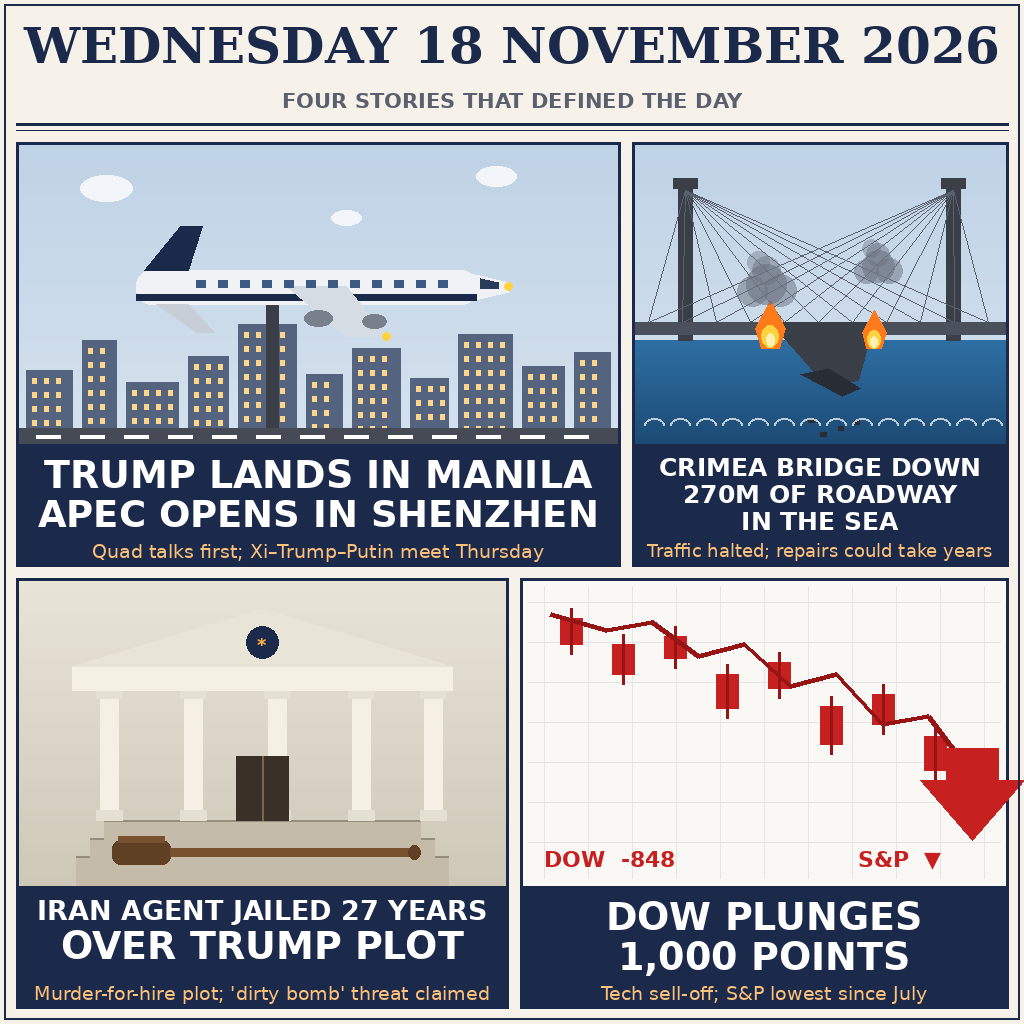
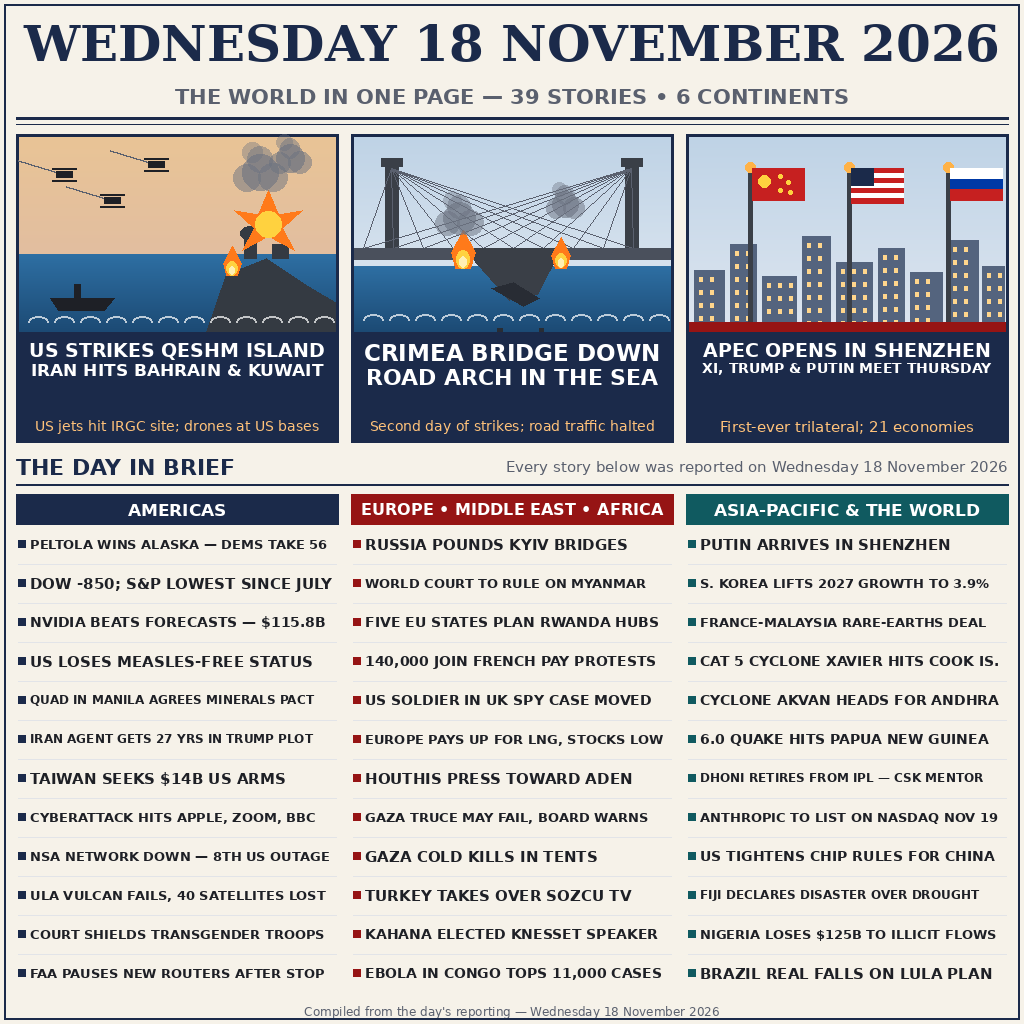
v2: 39-story front page — 3 visual leads + 36 verified briefs, 6 continents (1024x1024, 150570 bytes)

diff --git a/main.py b/main.py
@@ -1,4 +1,4 @@
-# main.py — news-image-20261118 entry program.
+# main.py — news-image-20261118 entry program (v2).
 # Copies the repository's front-page image (entry.png) to the output directory.
 # Python 3.13 stdlib only, no network, no randomness, no clock: running it
 # twice writes identical bytes.
